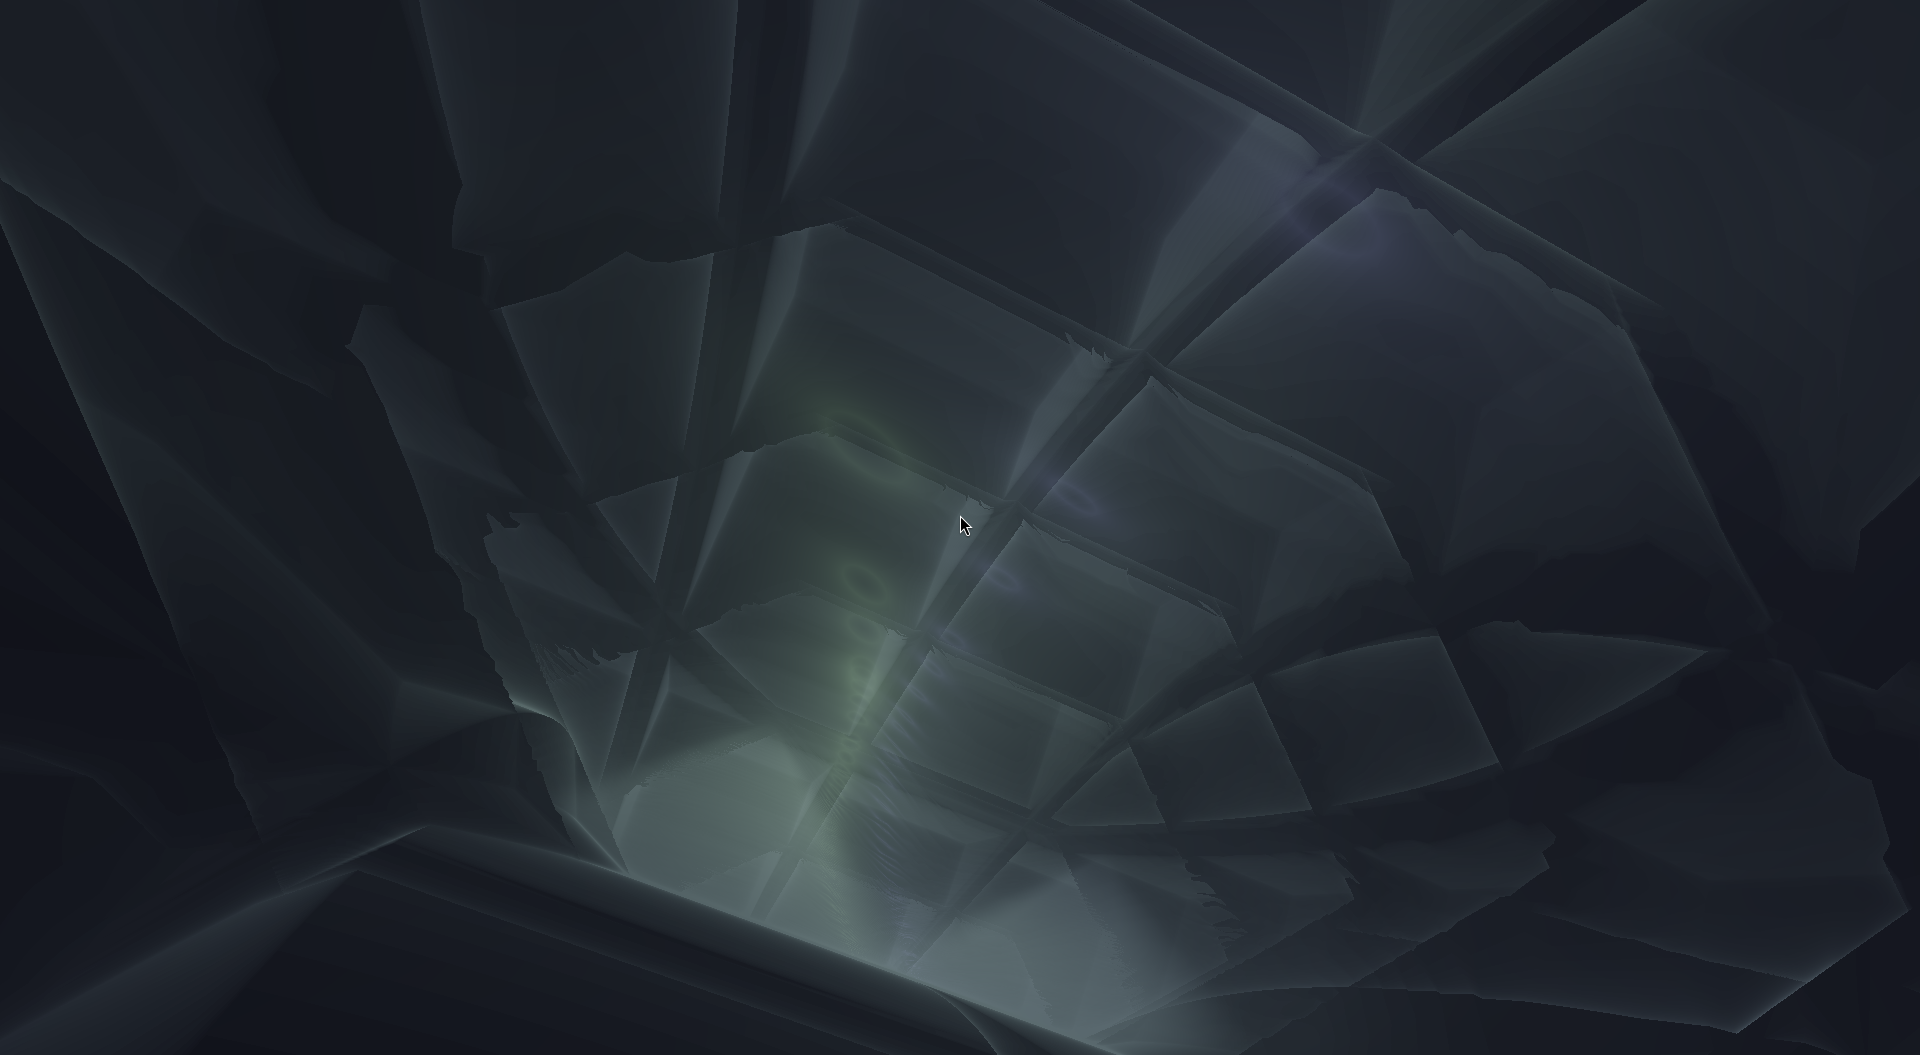
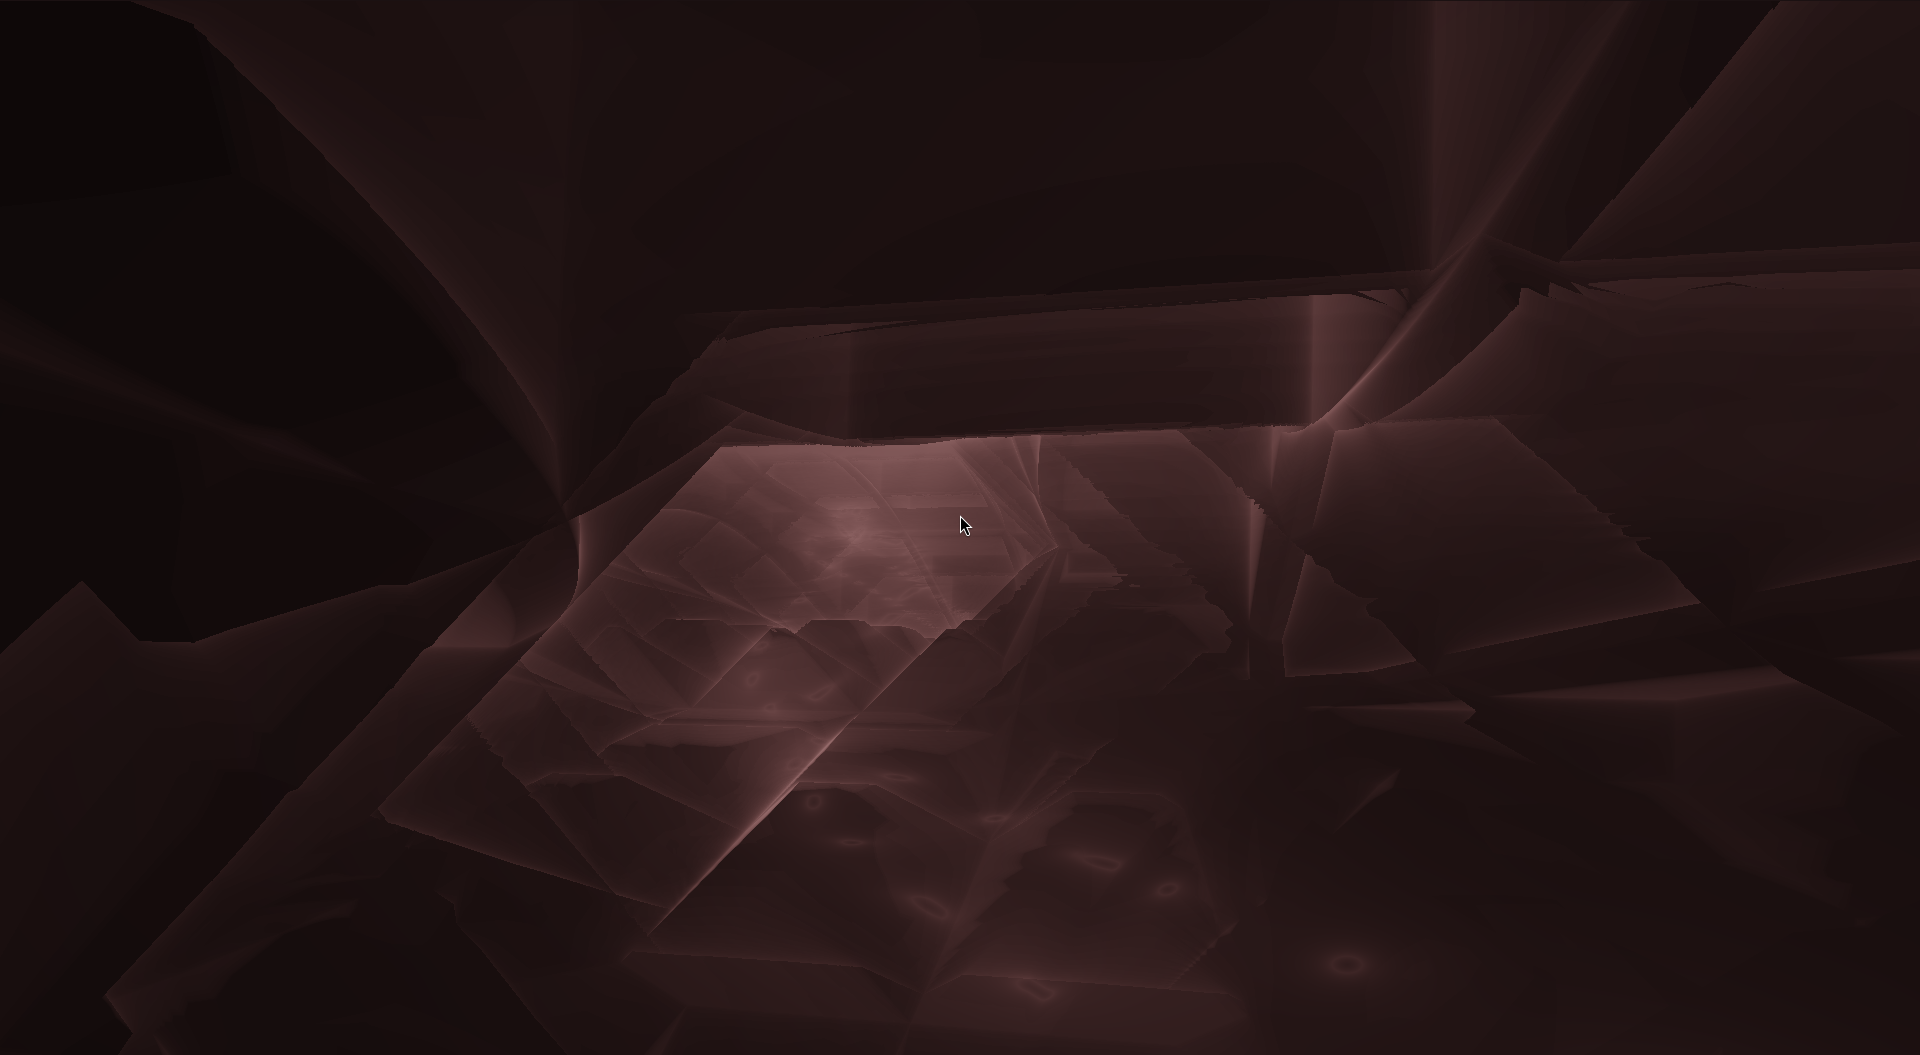
Omarwalls 1.2.0 — real accent/cursor/background shader slots

diff --git a/renderer/shader-host.cpp b/renderer/shader-host.cpp
@@ -37,10 +37,10 @@ static void die(const char *m) { fprintf(stderr, "SHADERHOST: %s\n", m); exit(1)
 // UBO layout (must match fragment shader block)
 //   layout(set=0, binding=0) uniform Uniforms {
 //     vec3 iResolution; float _pad0; float iTime; float iFrame;
-//     vec4 iMouse; vec4 iDate; vec4 u_theme[16];
+//     vec4 iMouse; vec4 iDate; vec4 u_theme[24];
 //   };
 // ---------------------------------------------------------------------------
-struct UBO {                       // std140 layout, 28 floats total
+struct UBO {                       // std140 layout
     float iResolution[3];          // vec3,   offset 0
     float _pad0;                   //         offset 12 (helps alignment)
     float iTime;                   //         offset 16
@@ -48,7 +48,7 @@ struct UBO {                       // std140 layout, 28 floats total
     float _pad1[2];                // align iMouse vec4 to 32 (24->32)
     float iMouse[4];               // vec4,   offset 32
     float iDate[4];                // vec4,   offset 48
-    float u_theme[16][4];          // vec4 x16, offset 64 .. 304
+    float u_theme[24][4];          // vec4 x24, offset 64 .. 448
 };
 
 // ---------------------------------------------------------------------------
@@ -162,14 +162,22 @@ static VkPipeline buildPipeline(const std::string &fragSrc, std::string *err) {
         "  float iFrame;\n"
         "  vec4  iMouse;\n"
         "  vec4  iDate;\n"
-        "  vec4  u_theme[16];\n"
+        "  vec4  u_theme[24];\n"
         "} u;\n"
         "#define iResolution u.iResolution\n"
         "#define iTime       u.iTime\n"
         "#define iFrame      u.iFrame\n"
         "#define iMouse      u.iMouse\n"
         "#define iDate       u.iDate\n"
-        "#define u_theme     u.u_theme\n";
+        "#define u_theme     u.u_theme\n"
+        // Unprefixed semantic aliases in slots 16..21: the color0..15 palette
+        // override never touches these, so they stay the real UI colors.
+        "#define u_background u_theme[16]\n"
+        "#define u_foreground u_theme[17]\n"
+        "#define u_accent     u_theme[18]\n"
+        "#define u_muted      u_theme[19]\n"
+        "#define u_cursor     u_theme[20]\n"
+        "#define u_selection  u_theme[21]\n";
 
     static const char *kVtx = R"GLSL(
 #version 450
@@ -400,6 +408,9 @@ static void recordFrame(VkCommandBuffer cb, uint32_t imgIdx) {
 //   background → [0], foreground → [1], accent → [2], muted → [3],
 //   cursor → [4], selection → [5]; color0..color15 override [0..15] so the
 //   full terminal palette is exposed to shaders.
+//   [16]..[21] keep the unprefixed semantic colors (background, foreground,
+//   accent, muted, cursor, selection), which the palette override never
+//   touches — use these (u_accent, u_background, …) for UI-colored visuals.
 // ---------------------------------------------------------------------------
 static int hexVal(char c) {
     if (c>='0'&&c<='9') return c-'0';
@@ -486,6 +497,24 @@ static void loadTheme(UBO &ubo) {
         std::string k="color"+std::to_string(i);
         if (kv.count(k)) themeColor(kv[k], ubo.u_theme[i]);
     }
+
+    // Unprefixed semantic colors, kept out of the palette override's reach so
+    // shaders can ask for the real UI accent/background/etc. Cursor and
+    // selection fall back the way the web renderer does (cursor -> accent,
+    // selection -> accent), never to a foreign default.
+    std::string bg  = pick("background","bg","#1e1e2e");
+    std::string fg  = pick("foreground","fg","#cdd6f4");
+    std::string acc = pick2("accent", "#89b4fa");
+    std::string mut = kv.count("muted") ? kv["muted"]
+                    : (kv.count("color8") ? kv["color8"] : "#6c7086");
+    std::string cursorCol = kv.count("cursor") ? kv["cursor"] : acc;
+    std::string sel = kv.count("selection") ? kv["selection"] : acc;
+    themeColor(bg,  ubo.u_theme[16]);
+    themeColor(fg,  ubo.u_theme[17]);
+    themeColor(acc, ubo.u_theme[18]);
+    themeColor(mut, ubo.u_theme[19]);
+    themeColor(cursorCol, ubo.u_theme[20]);
+    themeColor(sel, ubo.u_theme[21]);
 }
 
 // ---------------------------------------------------------------------------

diff --git a/README.md b/README.md
@@ -7,7 +7,7 @@ theme state).
 
 | Kind | Renderer | Notes |
 |---|---|---|
-| `shader` | `shader-host` (pure Vulkan, no Qt) | Shadertoy-style GLSL; theme arrives as a `u_theme[16]` uniform array |
+| `shader` | `shader-host` (pure Vulkan, no Qt) | Shadertoy-style GLSL; theme arrives as a `u_theme[24]` uniform array |
 | `web` | `webwall-host` (QtWebEngine) | Full-page HTML5/canvas; theme is injected as `window.webwallTheme` |
 | `video` | `webwall-host` (QtMultimedia) | Loops muted, aspect-cropped to the screen |
 
@@ -86,20 +86,26 @@ manifest path; empty = stopped).
 provide `void mainImage(out vec4 fragColor, in vec2 fragCoord)` and use
 `iResolution`, `iTime`, `iFrame`, `iMouse`, `iDate` — and so are
 self-contained shaders that define `void main()` and write `fragColor`
-directly. The Omarchy theme is available as a `uniform vec4 u_theme[16]`:
+directly. The active Omarchy theme is available as `uniform vec4 u_theme[24]`:
 
-| Slot | Meaning | Fallback source |
-|---|---|---|
-| `u_theme[0]` | background | `color0` |
-| `u_theme[1]` | foreground | `color1` |
-| `u_theme[2]` | accent | `color2` |
-| `u_theme[3]` | muted | `muted` |
-| `u_theme[4]` | cursor | `cursor` |
-| `u_theme[5]` | selection | `selection` |
-| `u_theme[0..15]` | terminal palette | `color0..color15` (override the slots above) |
+| Slot | Meaning |
+|---|---|
+| `u_theme[0..5]` | seeded with `background`, `foreground`, `accent`, `muted`, `cursor`, `selection`, then overridden by `color0..color5` |
+| `u_theme[6..15]` | `color6..color15` of the terminal palette |
+| `u_theme[16]` | real `background` |
+| `u_theme[17]` | real `foreground` |
+| `u_theme[18]` | real `accent` |
+| `u_theme[19]` | real `muted` |
+| `u_theme[20]` | real `cursor` (falls back to `accent`) |
+| `u_theme[21]` | real `selection` |
+| `u_theme[22..23]` | reserved (zero) |
 
-i.e. the semantic slots are filled first, then `color0..color15` override
-slots 0–15, so the full terminal palette is exposed to shaders.
+Since most Omarchy themes define the full `color0..color15` palette, slots 0–15
+are the terminal palette at runtime. Slots 16–21 are never touched by that
+override and always hold the real UI colors, also exposed as the aliases
+`u_background`, `u_foreground`, `u_accent`, `u_muted`, `u_cursor` and
+`u_selection` — use those when a wallpaper should follow the UI accent rather
+than the terminal palette.
 
 ### Web wallpapers
 
@@ -151,7 +157,9 @@ store: `aurora`, `plasma`, `tunnel`, `tunnel-theme` (shaders), `web-demo`
 
 `tunnel` is a port of the raymarched “I like tunnels” scene from the author's
 Wallpaper Engine workshop item; `tunnel-theme` runs the same scene with its
-two light streams taken from the active Omarchy palette.
+two light streams taken from the theme's real `accent` and `cursor` colors
+(falling back to the accent), and its background tint from the real
+`background` — not from the `color0..15` terminal palette.
 
 ## License
 
